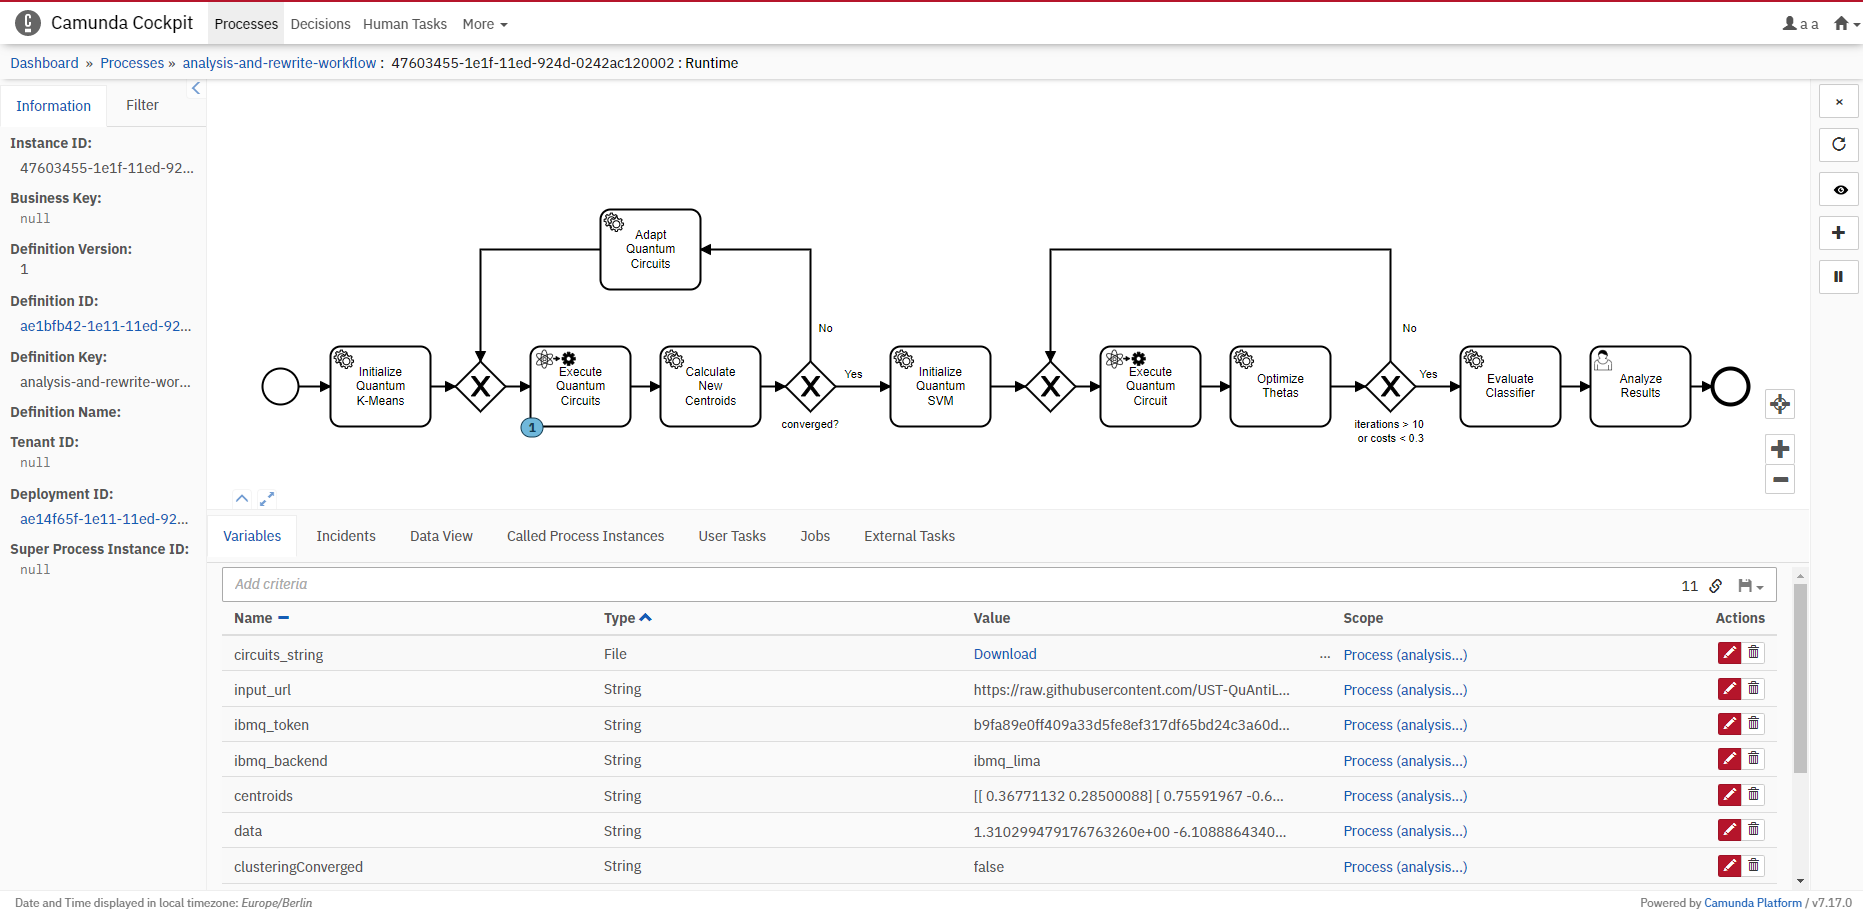
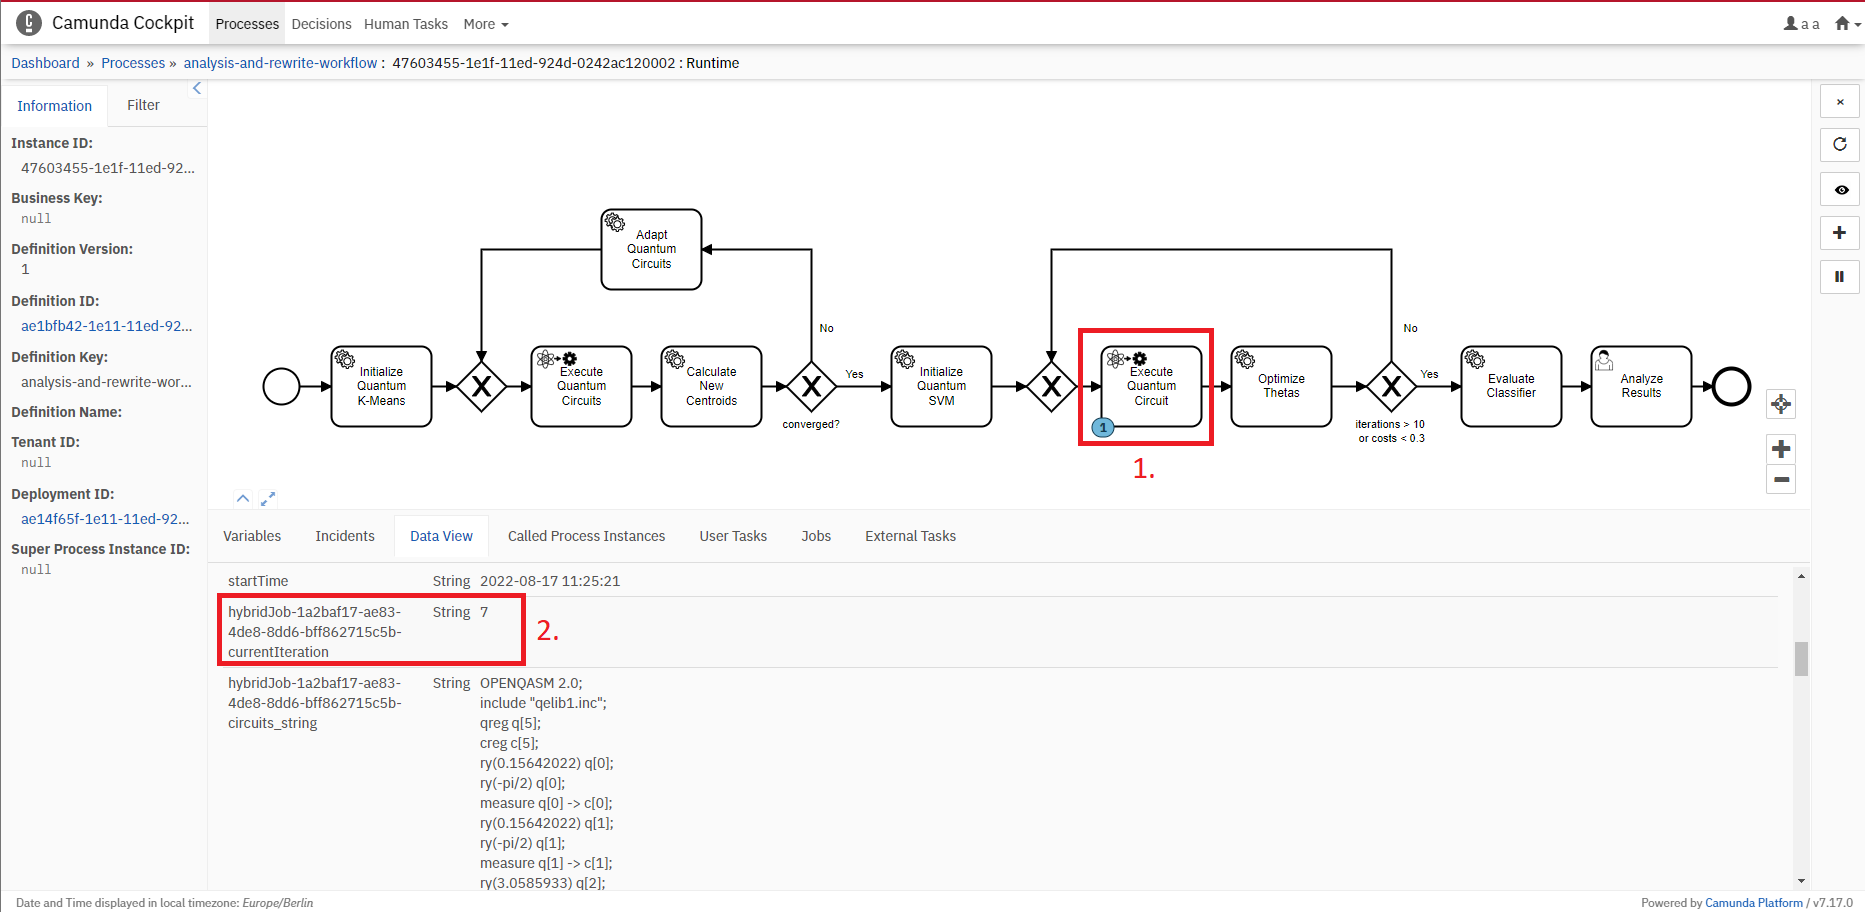
Add details about data view

diff --git a/2022-sncs/README.md b/2022-sncs/README.md
@@ -221,9 +221,10 @@ To switch between the views, click on the button on the right side of the viewer
 
 ![Camunda Token Flow View](./docs/camunda-cockpit-running-workflow-view.png)
 
-Now the token flow within the modeled workflow is visualized, i.e., in the example, a quantum circuit is currently executed within the hybrid program.
+Now the token flow within the modeled workflow is visualized, i.e., in the example, a quantum circuit is currently executed within the hybrid program (see 1. in the figure above).
 Thus, more details about the current state of the execution are visualized by using this view.
 Furthermore, also variables representing intermediate result of the workflow execution are shown in the ``Data View`` tab.
+For example, the current iteration executed within the hybrid program can be retrieved (see 2. in the figure above).
 Wait until the token reaches the final user task in the workflow as depicted below.
 For this, refresh the page to see the current state of the workflow instance.
 This might take some time, depending on the utilization of the selected QPU.
